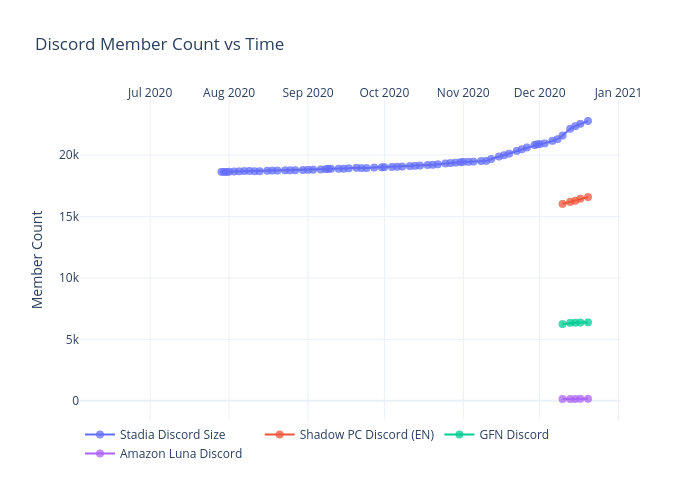
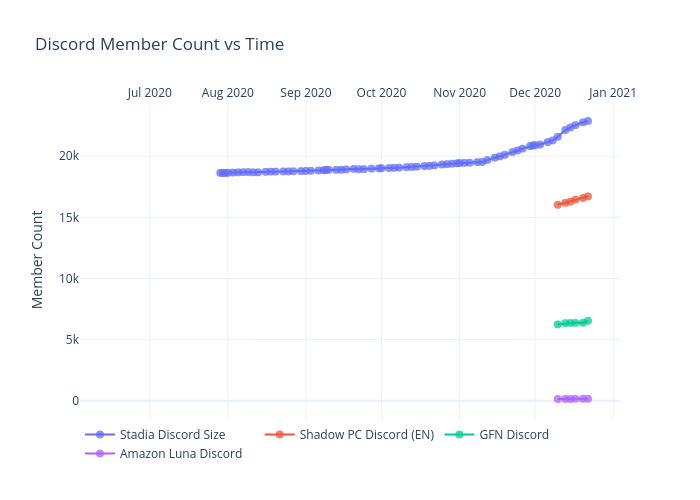
Add files via upload

diff --git a/discord/figure.js b/discord/figure.js
@@ -162,7 +162,8 @@ var figure = {
                 "22132",
                 "22345",
                 "22533",
-                "22766"
+                "22766",
+                "22872"
             ],
             "marker": {
                 "size": 8,
@@ -333,7 +334,8 @@ var figure = {
                 "16183",
                 "16277",
                 "16444",
-                "16579"
+                "16579",
+                "16707"
             ],
             "marker": {
                 "size": 8,
@@ -504,7 +506,8 @@ var figure = {
                 "6344",
                 "6358",
                 "6369",
-                "6380"
+                "6380",
+                "6542"
             ],
             "marker": {
                 "size": 8,
@@ -675,7 +678,8 @@ var figure = {
                 "146",
                 "147",
                 "164",
-                "164"
+                "164",
+                "163"
             ],
             "marker": {
                 "size": 8,
@@ -693,8 +697,8 @@ var figure = {
             "side": "top",
             "type": "date",
             "range": [
-                "2020-06-04 06:44:45.1363",
-                "2020-12-31 17:15:14.8637"
+                "2020-06-04 03:44:16.1004",
+                "2021-01-02 20:15:43.8996"
             ],
             "title": {
                 "text": ""
@@ -704,8 +708,8 @@ var figure = {
         "yaxis": {
             "type": "linear",
             "range": [
-                -1404.0747139855243,
-                24316.074713985523
+                -1411.3385477469064,
+                24429.338547746906
             ],
             "title": {
                 "text": "Member Count"
